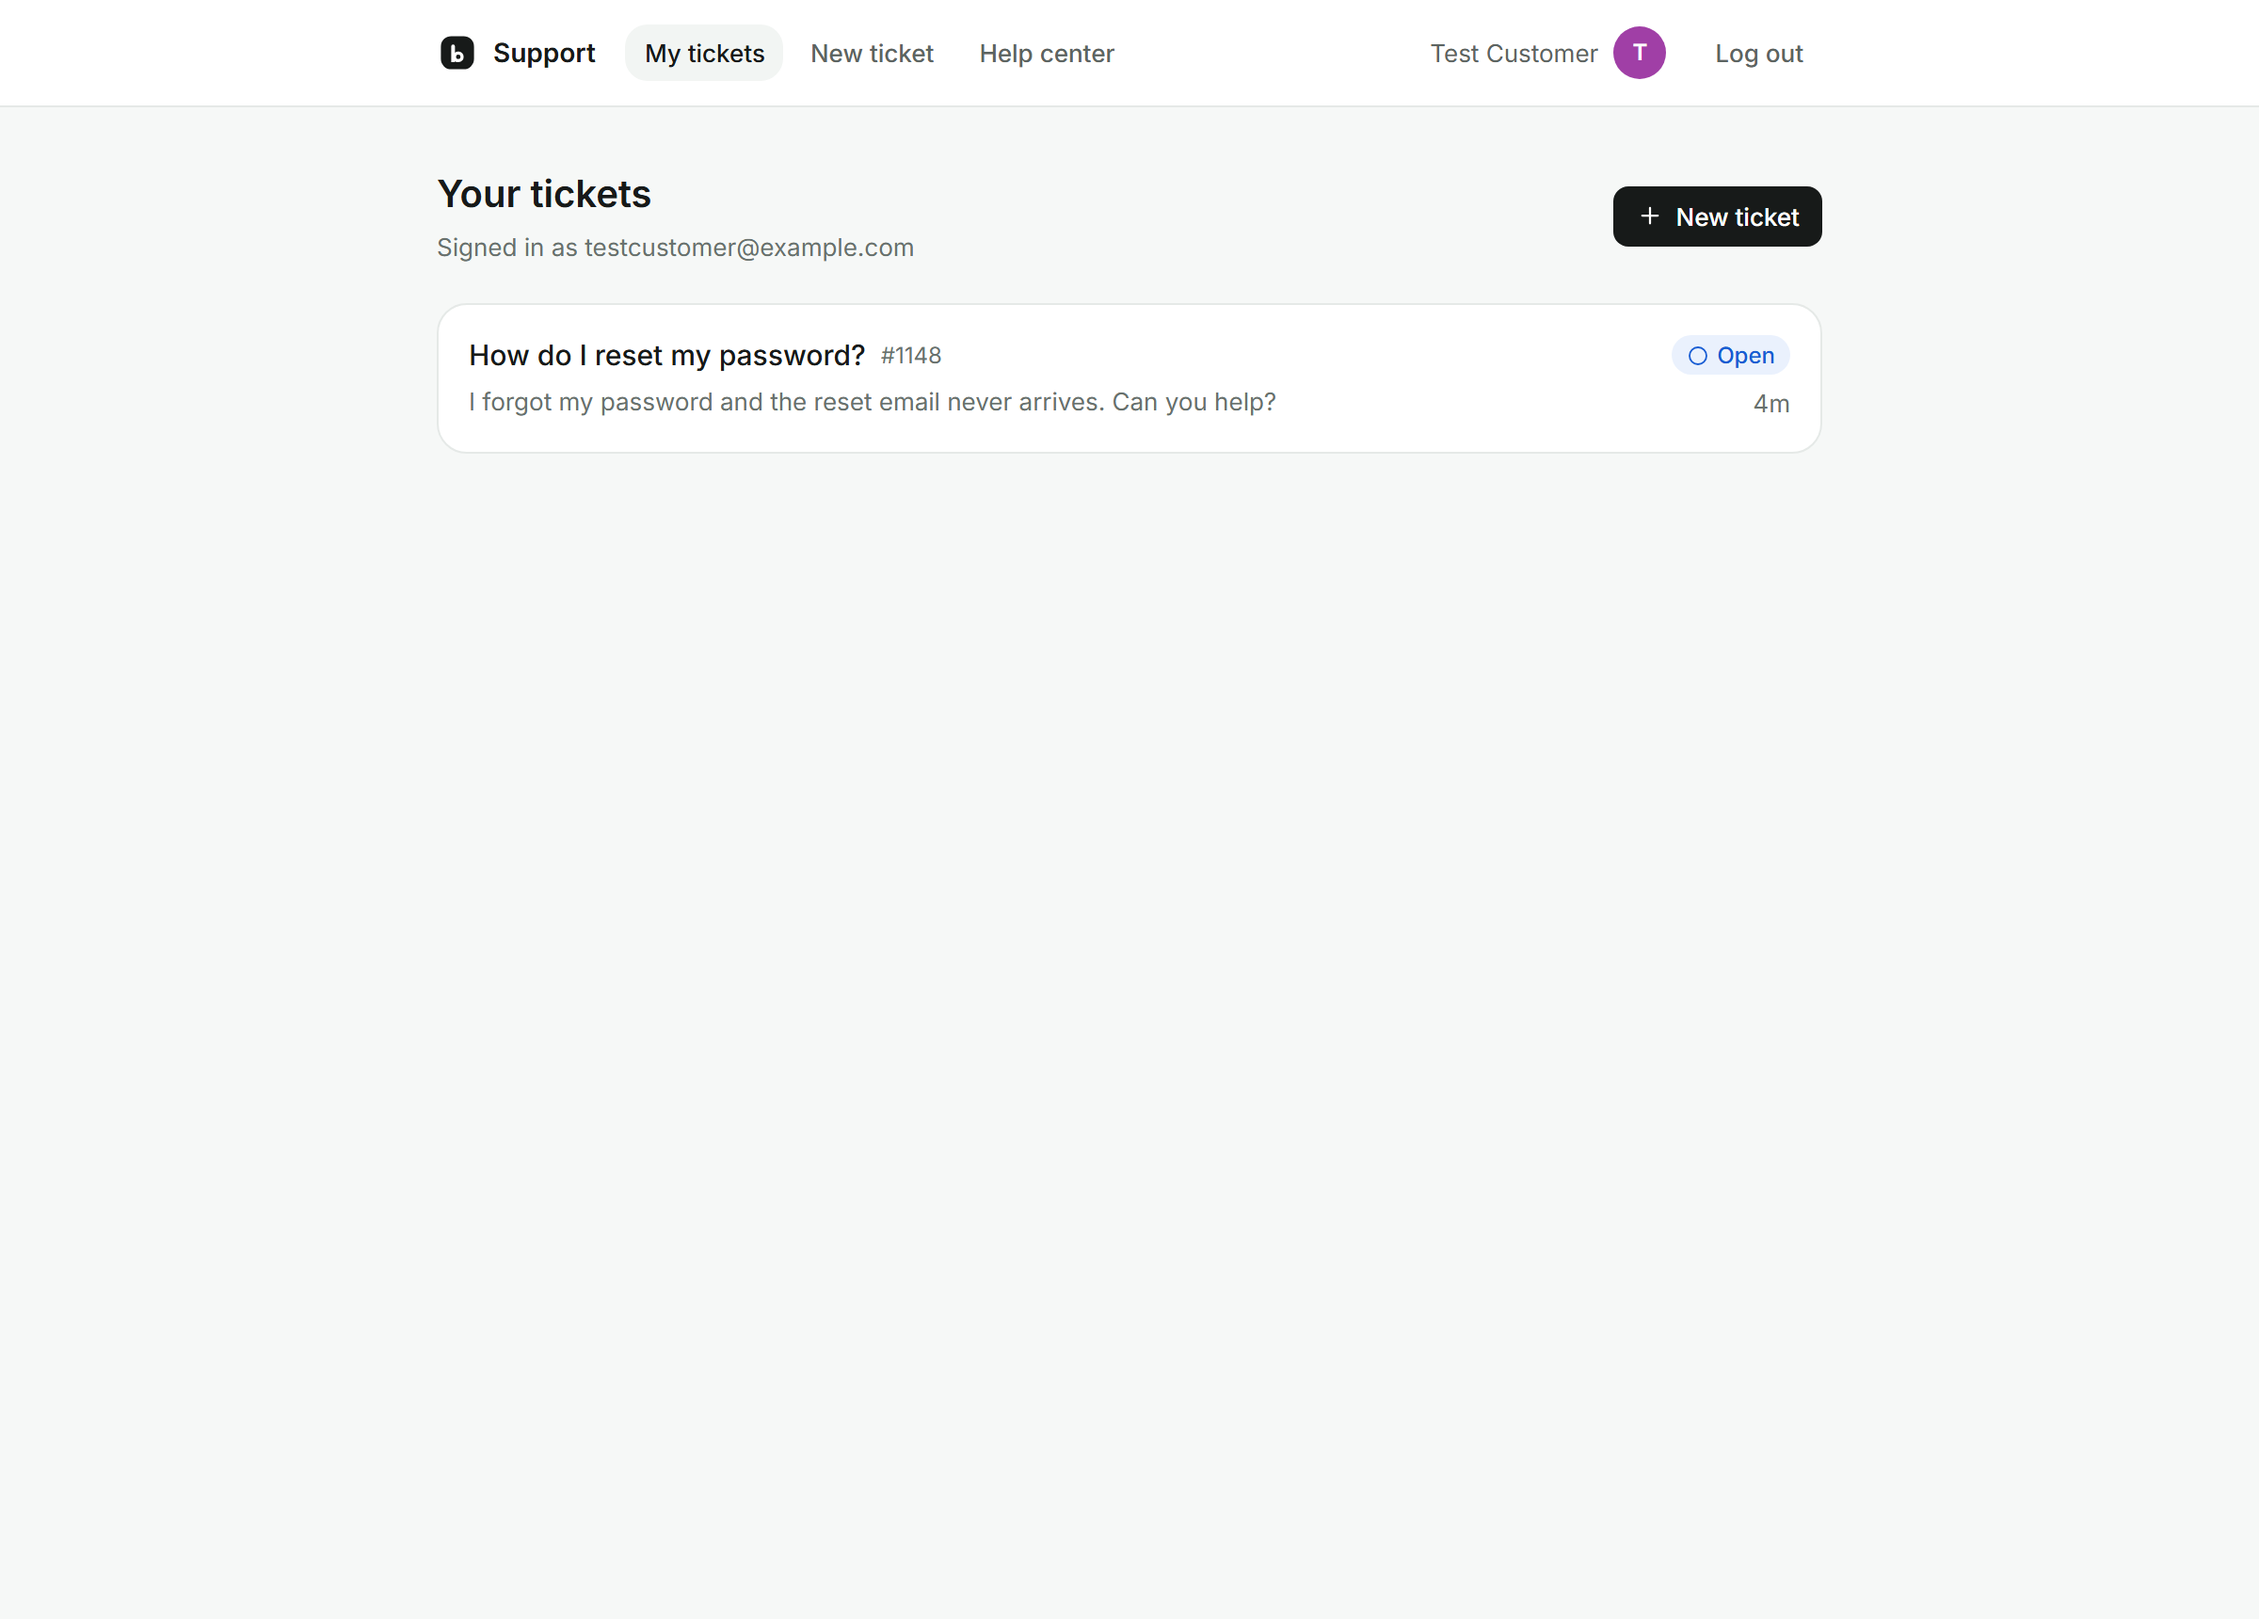
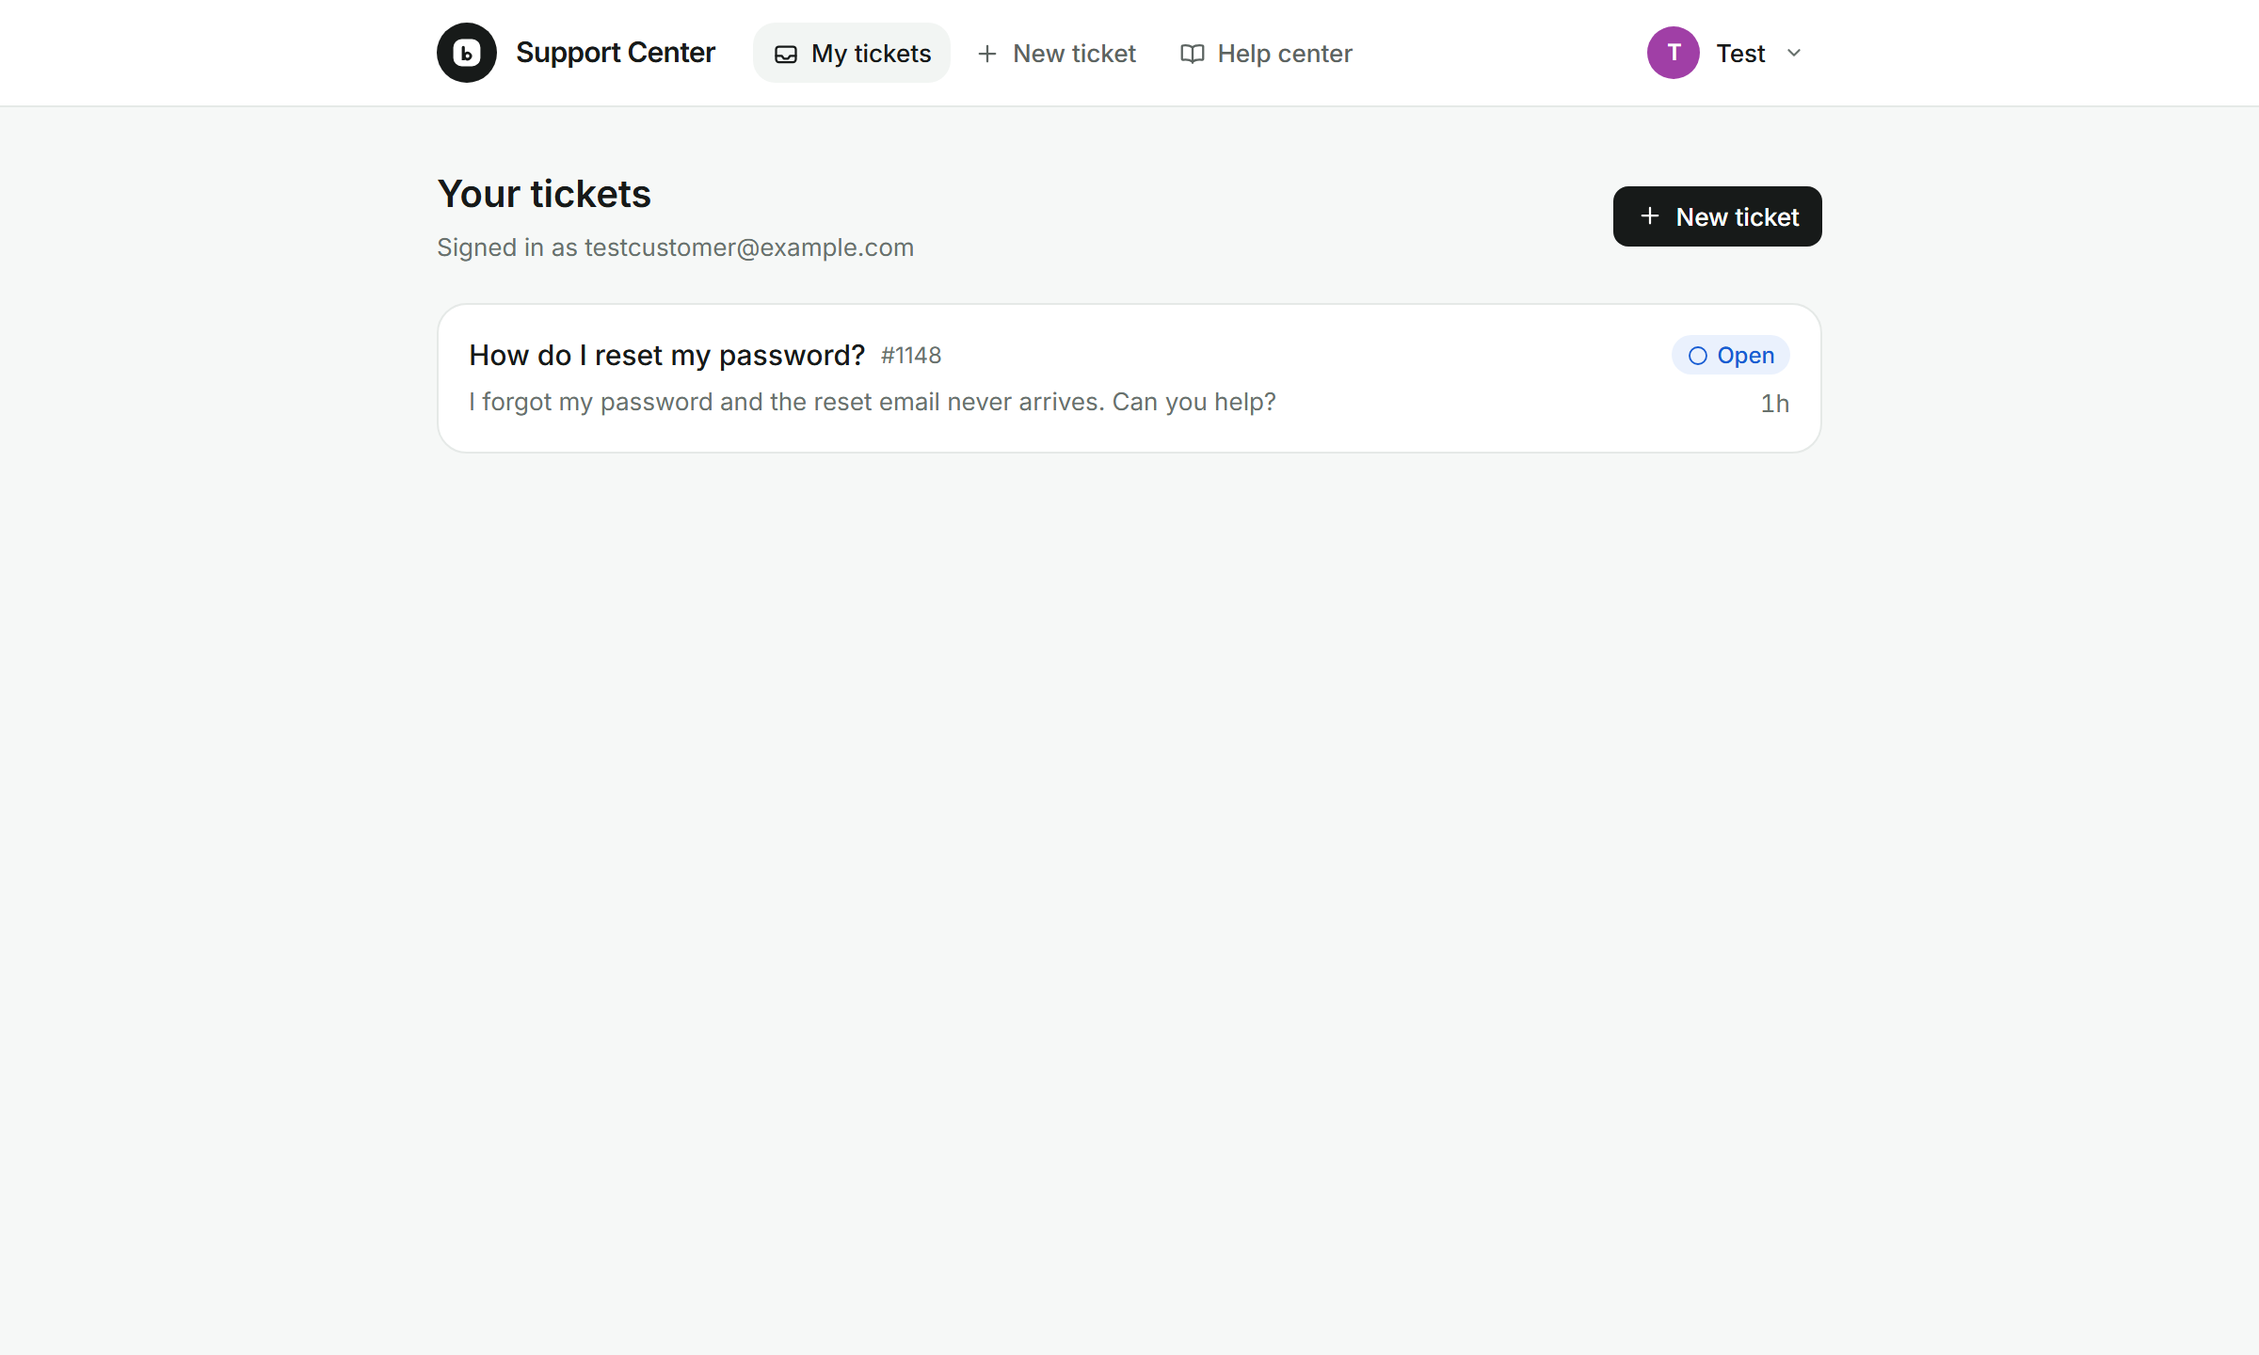
feat: polished customer portal header
Rounded logo badge with 'Support Center', icon nav pills with an active state,
a sticky bar, a responsive nav row on narrow screens, and a consolidated account
dropdown (avatar + name → Profile / Log out) replacing the loose name link and
separate logout button.

diff --git a/web/src/portal/PortalLayout.tsx b/web/src/portal/PortalLayout.tsx
@@ -1,14 +1,38 @@
 import { NavLink, Outlet, useNavigate } from 'react-router';
 import { usePortal } from './store';
 import { Avatar } from '../components/Avatar';
+import { Menu } from '../components/Menu';
 import { cx } from '../components/util';
-import { IconLogo } from '../icons';
+import { IconBook, IconChevronDown, IconInbox, IconLogo, IconPlus, IconUser } from '../icons';
 
-const NAV = [
-  { to: '/portal', label: 'My tickets', end: true },
-  { to: '/portal/new', label: 'New ticket', end: false },
-  { to: '/portal/help', label: 'Help center', end: false },
+type NavItem = { to: string; label: string; end: boolean; icon: (p: { size?: number; className?: string }) => React.ReactNode };
+
+const NAV: NavItem[] = [
+  { to: '/portal', label: 'My tickets', end: true, icon: IconInbox },
+  { to: '/portal/new', label: 'New ticket', end: false, icon: IconPlus },
+  { to: '/portal/help', label: 'Help center', end: false, icon: IconBook },
 ];
+
+const firstName = (name: string): string => name.trim().split(/\s+/)[0] || name;
+
+function NavPill({ item }: { item: NavItem }) {
+  const Icon = item.icon;
+  return (
+    <NavLink
+      to={item.to}
+      end={item.end}
+      className={({ isActive }) =>
+        cx(
+          'inline-flex h-8 shrink-0 items-center gap-1.5 rounded-md px-2.5 text-[13px] font-medium transition-colors',
+          isActive ? 'bg-surface-2 text-text' : 'text-text-2 hover:bg-surface-2 hover:text-text',
+        )
+      }
+    >
+      <Icon size={15} className="shrink-0" />
+      {item.label}
+    </NavLink>
+  );
+}
 
 export function PortalLayout() {
   const contact = usePortal((s) => s.contact);
@@ -22,45 +46,54 @@ export function PortalLayout() {
 
   return (
     <div className="flex min-h-full flex-col bg-bg">
-      <header className="border-b border-line bg-surface">
-        <div className="mx-auto flex h-14 w-full max-w-3xl items-center gap-4 px-4">
-          <NavLink to="/portal" className="flex items-center gap-2 font-semibold">
-            <IconLogo size={22} />
-            <span>Support</span>
+      <header className="sticky top-0 z-20 border-b border-line bg-surface">
+        <div className="mx-auto flex h-14 w-full max-w-3xl items-center gap-2 px-4">
+          <NavLink to="/portal" className="mr-1 flex shrink-0 items-center gap-2.5" aria-label="Support home">
+            <span className="flex size-8 items-center justify-center rounded-lg bg-accent text-accent-fg">
+              <IconLogo size={18} />
+            </span>
+            <span className="text-[15px] font-semibold tracking-tight">Support Center</span>
           </NavLink>
-          <nav className="flex items-center gap-1">
-            {NAV.map((n) => (
-              <NavLink
-                key={n.to}
-                to={n.to}
-                end={n.end}
-                className={({ isActive }) =>
-                  cx(
-                    'rounded-md px-2.5 py-1.5 text-[13px] font-medium transition-colors',
-                    isActive ? 'bg-surface-2 text-text' : 'text-text-2 hover:bg-surface-2 hover:text-text',
-                  )
-                }
-              >
-                {n.label}
-              </NavLink>
+
+          <nav className="ml-2 hidden items-center gap-0.5 sm:flex">
+            {NAV.map((item) => (
+              <NavPill key={item.to} item={item} />
             ))}
           </nav>
+
           <div className="flex-1" />
+
           {contact && (
-            <NavLink to="/portal/profile" className="flex items-center gap-2" aria-label="Profile">
-              <span className="hidden text-[13px] text-text-2 sm:block">{contact.name}</span>
-              <Avatar name={contact.name} hue={contact.avatarHue} size={28} />
-            </NavLink>
+            <Menu
+              align="end"
+              triggerLabel="Account menu"
+              triggerClassName="flex items-center gap-2 rounded-full py-1 pl-1 pr-2 transition-colors hover:bg-surface-2"
+              trigger={
+                <>
+                  <Avatar name={contact.name} hue={contact.avatarHue} size={28} />
+                  <span className="hidden max-w-[10rem] truncate text-[13px] font-medium sm:block">
+                    {firstName(contact.name)}
+                  </span>
+                  <IconChevronDown size={14} className="shrink-0 text-text-3" />
+                </>
+              }
+              items={[
+                { label: 'Your profile', icon: <IconUser size={15} />, onSelect: () => navigate('/portal/profile') },
+                { separator: true },
+                { label: 'Log out', danger: true, onSelect: onLogout },
+              ]}
+            />
           )}
-          <button
-            type="button"
-            onClick={onLogout}
-            className="rounded-md px-2.5 py-1.5 text-[13px] font-medium text-text-2 transition-colors hover:bg-surface-2 hover:text-text"
-          >
-            Log out
-          </button>
         </div>
+
+        {/* On narrow screens the nav drops to its own scrollable row. */}
+        <nav className="flex items-center gap-0.5 overflow-x-auto border-t border-line px-3 py-2 sm:hidden">
+          {NAV.map((item) => (
+            <NavPill key={item.to} item={item} />
+          ))}
+        </nav>
       </header>
+
       <main className="mx-auto w-full max-w-3xl flex-1 px-4 py-8">
         <Outlet />
       </main>
